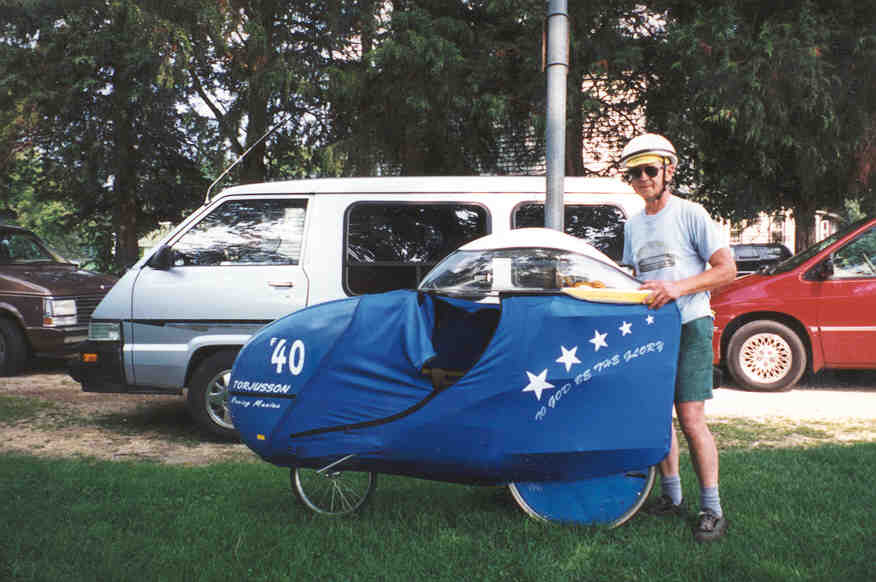
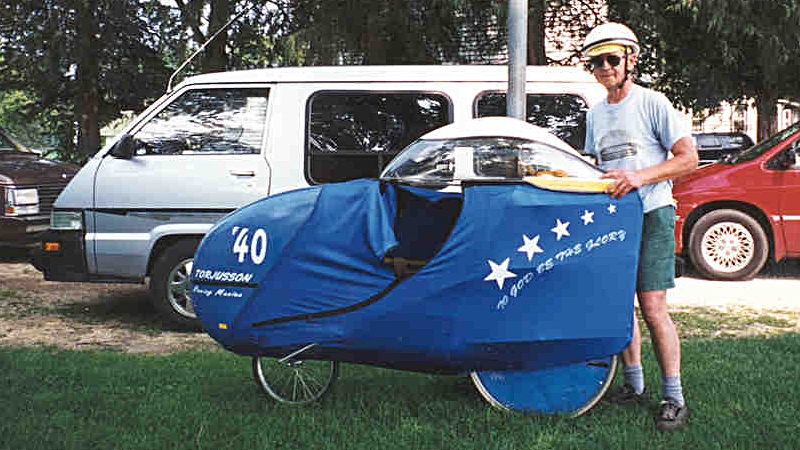
Tyger Johnson
Image resizing

diff --git a/riders/tyger_racing.html b/riders/tyger_racing.html
@@ -50,22 +50,22 @@
 		These photos were taken by Hal Barnhart during a visit to Tyger&rsquo;s place in Dakota, IL, this past summer. The fourth photo was snapped at 49 mph. Go Tyger!
 	</p>
 	<figure>
-		<img src="/images/tyger-johnson/Tygers_Fans.jpg" class="img-responsive img-thumbnail" height="990" width="1581" alt="Tyger Johnson">
+		<img src="/images/tyger-johnson/Tygers_Fans.jpg" class="img-responsive img-thumbnail" height="625" width="800" alt="Tyger Johnson">
 		<figcaption>
 			A few of Tyger&rsquo;s fans
 		</figcaption>
 	</figure>
 	<figure>
-		<img src="/images/tyger-johnson/tyger1.jpg" class="img-responsive img-thumbnail" height="582" width="876" alt="Tyger Johnson">
+		<img src="/images/tyger-johnson/tyger1.jpg" class="img-responsive img-thumbnail" height="450" width="800" alt="Tyger Johnson">
 		<figcaption>
 			The man himself
 		</figcaption>
 	</figure>
 	<figure>
-		<img src="/images/tyger-johnson/tyger2.jpg" class="img-responsive img-thumbnail" height="582" width="880" alt="Tyger Johnson">
+		<img src="/images/tyger-johnson/tyger2.jpg" class="img-responsive img-thumbnail" height="504" width="800" alt="Tyger Johnson">
 	</figure>
 	<figure>
-		<img src="/images/tyger-johnson/tyger3.jpg" class="img-responsive img-thumbnail" height="586" width="903" alt="Tyger Johnson">
+		<img src="/images/tyger-johnson/tyger3.jpg" class="img-responsive img-thumbnail" height="476" width="800" alt="Tyger Johnson">
 	</figure>
 	<figure>
 		<img src="/f40/gallery/data/images1/tyger_johnson_and_richard_nicodemus_at_northbrook.jpg" class="img-responsive img-thumbnail" width="640" height="480" alt="tyger_johnson_and_richard_nicodemus_at_northbrook">
